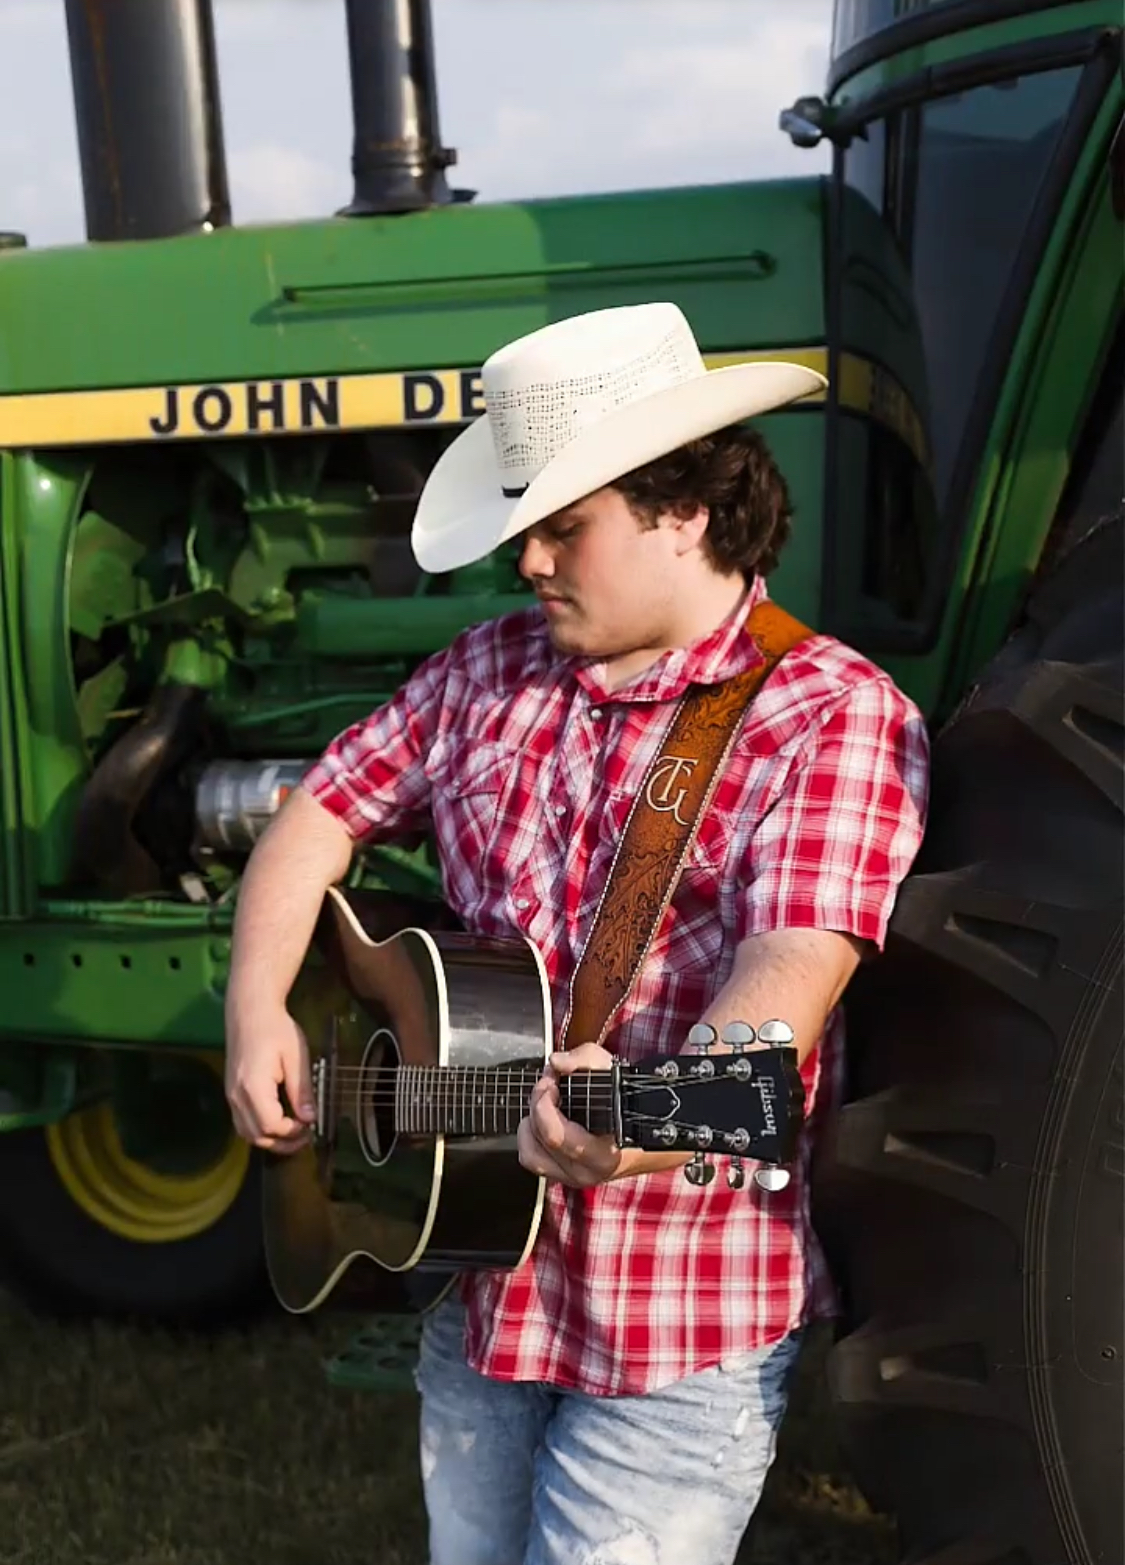
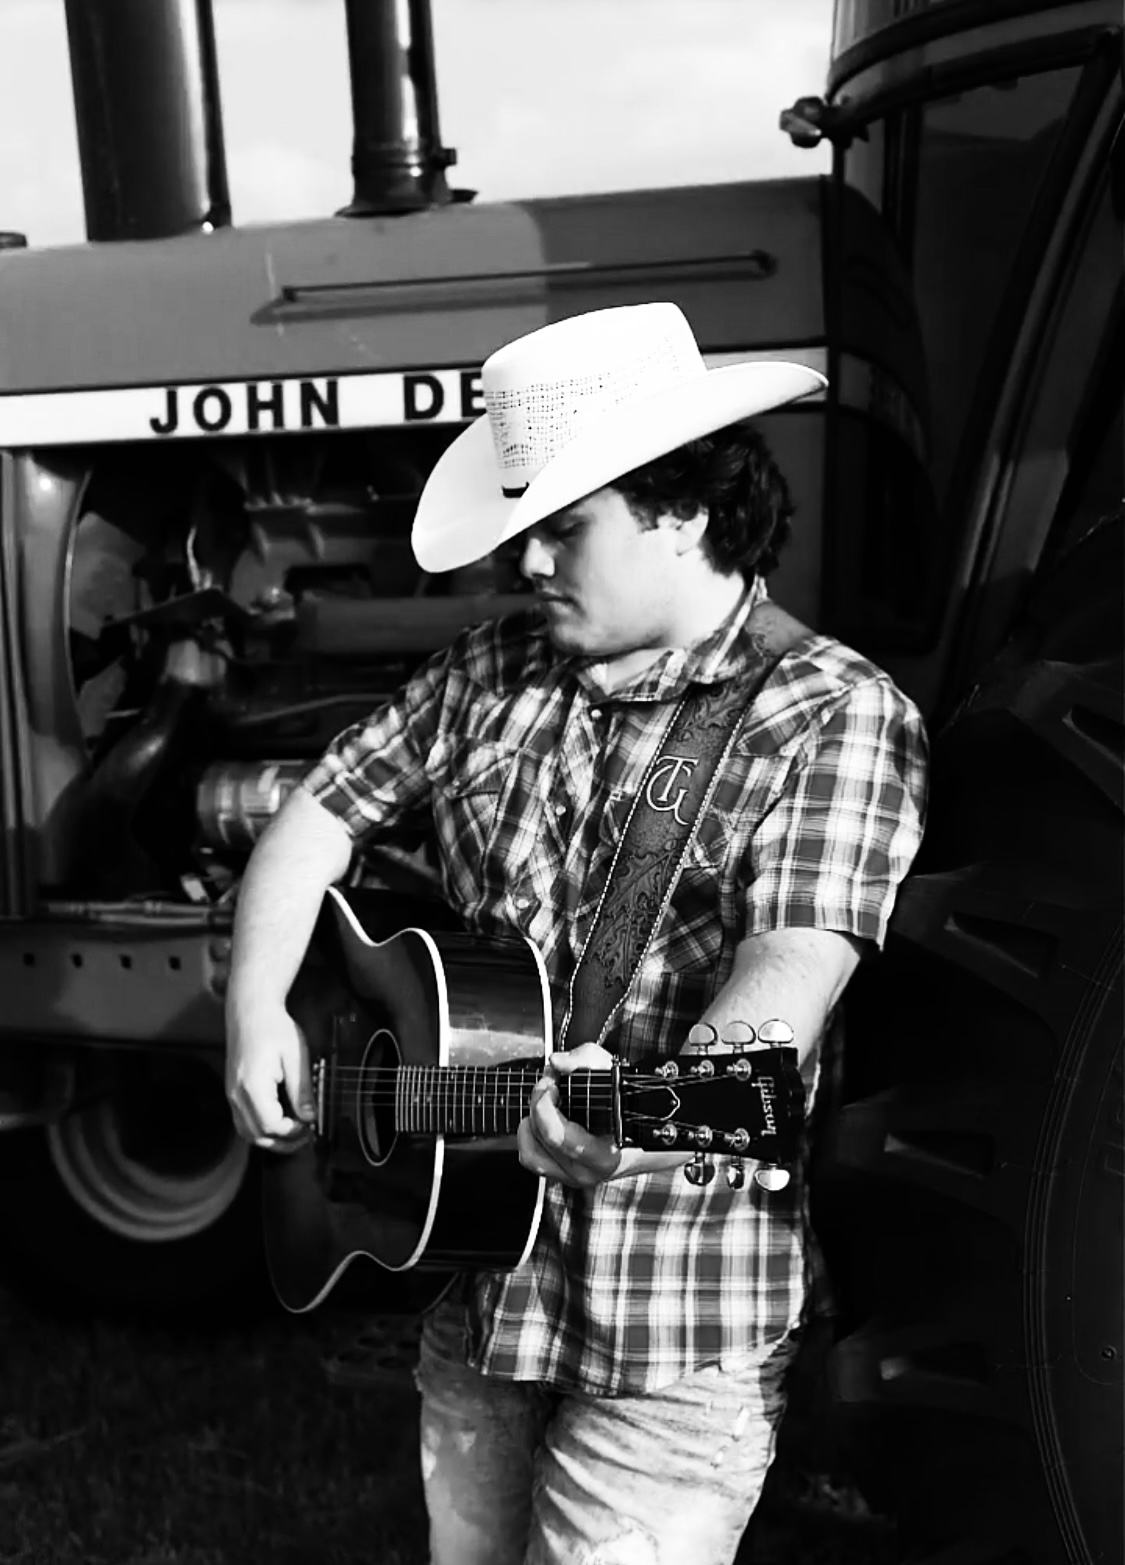
fixed footer alignment on mobile, changed photos

diff --git a/app/globals.css b/app/globals.css
@@ -243,6 +243,10 @@ footer .social-nav a:hover img {
   filter: invert(0.7);
 }
 
+footer .booking-text {
+  text-align: center;
+}
+
 footer .booking-text a {
   font-weight: 500;
 }
@@ -412,7 +416,7 @@ footer .booking-text a:hover {
 /*============================================================*/
 
 .section-events {
-  background-image: url('/gray-static.png');
+  background-image: url('/black-static.png');
   background-size: cover;
   background-position: center;
   background-repeat: no-repeat;
@@ -426,7 +430,10 @@ footer .booking-text a:hover {
 }
 
 .section-bio {
-  background: var(--color1);
+  background-image: url('/grey-static.png');
+  background-size: cover;
+  background-position: center;
+  background-repeat: no-repeat;
   color: white;
   padding: 2rem 0;
 }

diff --git a/app/page.tsx b/app/page.tsx
@@ -7,7 +7,7 @@ export default function Home() {
     <main>
 
       <section id="home">
-        <PhotoDisplay src="/photos/johndeer.jpg" alt="Artist photo"/>
+        <PhotoDisplay src="/photos/walking_guitar.JPEG" alt="Artist photo"/>
       </section>
 
       <section id="events" className="section-events">
@@ -21,7 +21,7 @@ export default function Home() {
       <section className="section-bio">
         <div className="content">
           <div className="left">
-            <img src="/photos/wildwings.png" alt="Artist photo" />
+            <img src="/photos/johndeer.jpg" alt="Artist photo" />
           </div>
           <div id="about" className="right">
           <h2>Bio</h2>

diff --git a/app/components/footer.tsx b/app/components/footer.tsx
@@ -25,8 +25,10 @@ export default function Footer() {
                </div>
 
                <p className="booking-text">
-                    Get in touch for bookings at: <a href={`mailto:${Globals.BOOKING_EMAIL}`}>{Globals.BOOKING_EMAIL}</a>
+                    Get in touch for bookings at:<br/>
+                    <a href={`mailto:${Globals.BOOKING_EMAIL}`}>{Globals.BOOKING_EMAIL}</a>
                </p>
+               
 
           </footer>
      );
